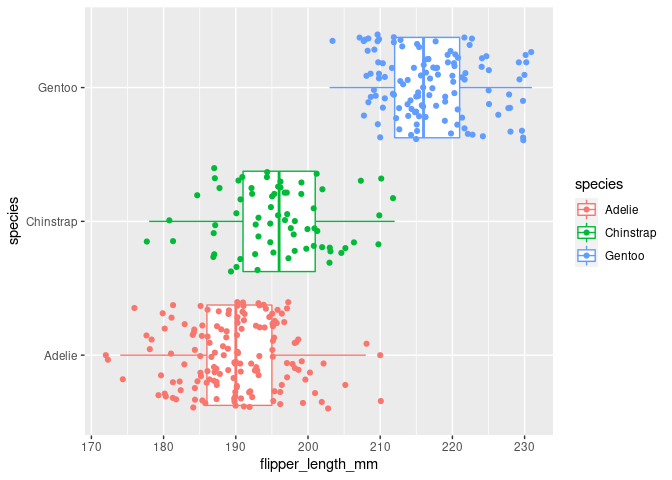
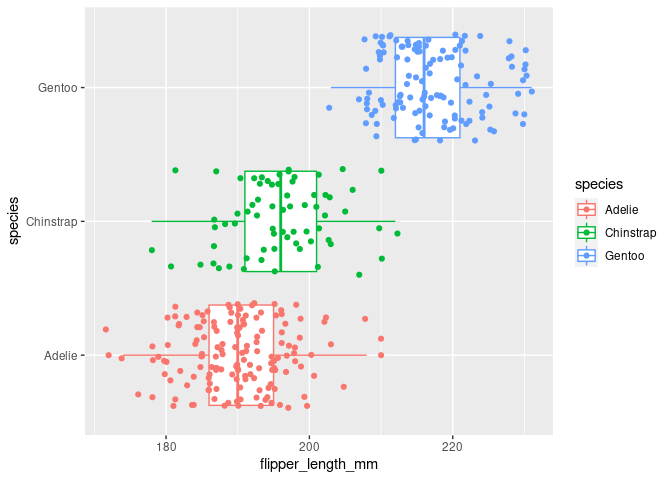
plotting jitter (scatterplot), combination and testing different layers

diff --git a/activity02-ggplot2-intro.md b/activity02-ggplot2-intro.md
@@ -232,12 +232,38 @@ default white coloring. In the code chunk below, explore different
 methods to try to create this plot. A hint, all `geom_*` have a
 `mapping` argument.
 
-In the above code chunk, continue to play around with having the
-aesthetics mapped in the different layers. For example, how does having
-all of them mapped in the `ggplot` call compared to having these instead
-mapped in the `geom_boxplot` layer? Comment on what you notice.
+``` r
+ggplot(data = penguins, mapping = aes(x = flipper_length_mm, y = species, position = "jitter")) +
+  geom_boxplot() + geom_jitter(aes(color = species)) #added the color aesthetic to the jitters only
+```
 
-**Response**:
+    ## Warning: Removed 2 rows containing non-finite values (stat_boxplot).
+
+    ## Warning: Removed 2 rows containing missing values (geom_point).
+
+![](activity02-ggplot2-intro_files/figure-gfm/jitter-colored-only-1.png)<!-- -->
+
+In the above code chunk, continue to play around with having the
+aesthetics mapped in the different layers.
+
+``` r
+ggplot(data = penguins) + geom_point(mapping = aes(x = flipper_length_mm, y = species, position = "jitter")) 
+```
+
+    ## Warning: Ignoring unknown aesthetics: position
+
+    ## Warning: Removed 2 rows containing missing values (geom_point).
+
+![](activity02-ggplot2-intro_files/figure-gfm/jitter-testing-1.png)<!-- -->
+
+For example, how does having all of them mapped in the `ggplot` call
+compared to having these instead mapped in the `geom_boxplot` layer?
+Comment on what you notice.
+
+**Response**: Mapping all the arguments in ggplot call alone displays a
+blank chart. However, when adding layers such as geom\_point(), a
+scatterplot is created but the distribution presented in the form of a
+line.
 
 Knit, then stage everything listed in your **Git** pane, commit (with a
 meaningful commit message), and push to your GitHub repo. Go to GitHub
